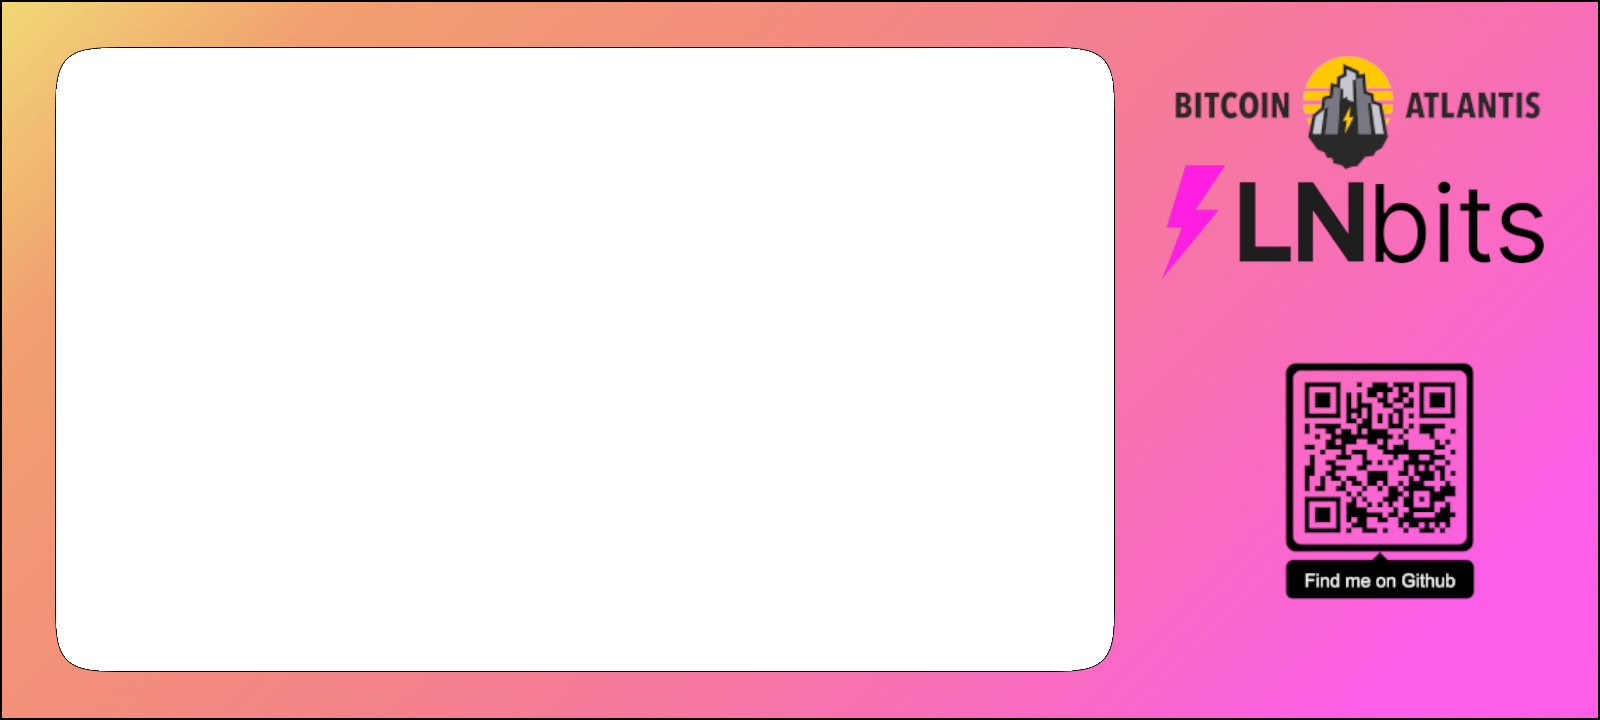
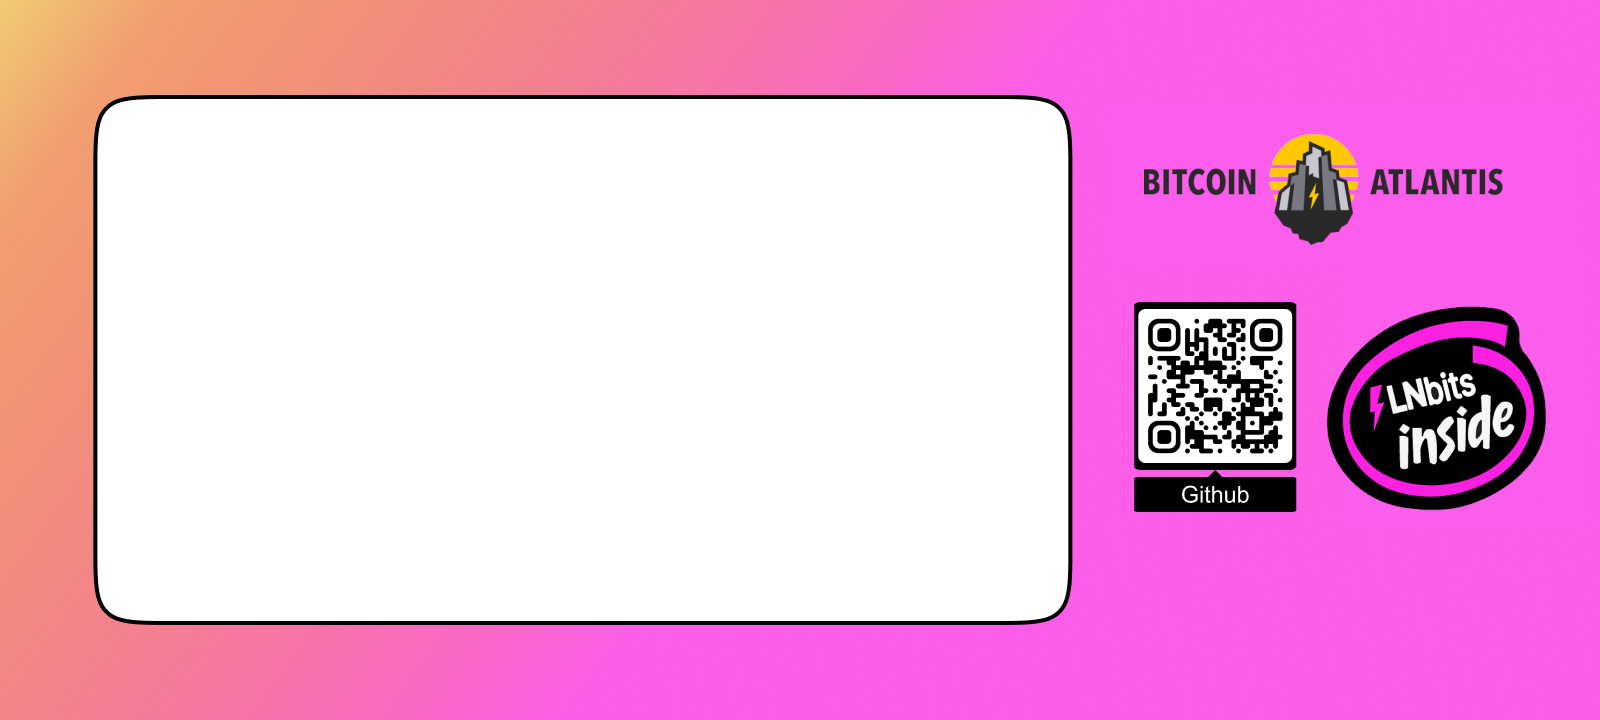
- new frames (white finish) - removed more bad gifs - poc.gif in README.md - new qr code image

diff --git a/Python/app.py b/Python/app.py
@@ -149,16 +149,16 @@ class VendingMachineDisplay(QWidget):
         # Picture Label setup for the right half
         self.rightPictureLabel = QLabel(self)  # Renamed to differentiate from the other picture label
         self.rightPictureLabel.setAlignment(Qt.AlignCenter)
-        rightPicturePixmap = QPixmap(rf"../images/gifs/0_welcome/text_welcome.png")  # Replace with your actual image path
-        self.rightPictureLabel.setPixmap(rightPicturePixmap.scaled(532, 532, Qt.KeepAspectRatio))
-        self.rightPictureLabel.setGeometry(605, 93, 530, 530)  # Positioned on the right half
+        rightPicturePixmap = QPixmap(rf"../images/gifs/0_welcome/qr-code.png")  # Replace with your actual image path
+        self.rightPictureLabel.setPixmap(rightPicturePixmap.scaled(525, 525, Qt.KeepAspectRatio))
+        self.rightPictureLabel.setGeometry(605, 98, 525, 525)  # Positioned on the right half
 
         # Picture Label setup for the left half
         self.leftPictureLabel = QLabel(self)  # Renamed to differentiate from the other picture label
         self.leftPictureLabel.setAlignment(Qt.AlignCenter)
         leftPicturePixmap = QPixmap(rf"../images/gifs/0_welcome/text_welcome.png")  # Replace with your actual image path
-        self.leftPictureLabel.setPixmap(leftPicturePixmap.scaled(532, 532, Qt.KeepAspectRatio))
-        self.leftPictureLabel.setGeometry(90, 93, 532, 532)  # Positioned on the left half
+        self.leftPictureLabel.setPixmap(leftPicturePixmap.scaled(530, 530, Qt.KeepAspectRatio))
+        self.leftPictureLabel.setGeometry(90, 96, 530, 530)  # Positioned on the left half
 
         self.setWindowFlags(self.windowFlags() | Qt.FramelessWindowHint)
 

diff --git a/LIESMICH.md b/LIESMICH.md
@@ -29,9 +29,9 @@
   <img src="https://github.com/j0sh21/DoxBox/assets/63317640/384280e0-cc6e-4bd0-9953-c318b5e12f15" height="200">
 
   <img src="https://github.com/j0sh21/DoxBox/assets/63317640/e446af16-d840-4cbc-87f9-3d5f67b3a15d" height="200">
-
+  <img src="poc.gif" height="200">
 ## Beispiel Programmablauf:
-<img src="flowchart.JPG" height="1300">
+<img src="flowchart.JPG" height="900">
 
 ## Einrichtungsanleitung
 

diff --git a/README.md b/README.md
@@ -28,9 +28,9 @@
   <img src="https://github.com/j0sh21/DoxBox/assets/63317640/384280e0-cc6e-4bd0-9953-c318b5e12f15" height="200">
 
   <img src="https://github.com/j0sh21/DoxBox/assets/63317640/e446af16-d840-4cbc-87f9-3d5f67b3a15d" height="200">
-
+  <img src="poc.gif" height="200">
 ## Example programm flow:
-<img src="flowchart.JPG" height="1300">
+<img src="flowchart.JPG" height="900">
 
 ## Setup Instructions
 

diff --git a/LEIA_ME.md b/LEIA_ME.md
@@ -31,6 +31,7 @@
   <img src="https://github.com/j0sh21/DoxBox/assets/63317640/384280e0-cc6e-4bd0-9953-c318b5e12f15" height="200">
 
   <img src="https://github.com/j0sh21/DoxBox/assets/63317640/e446af16-d840-4cbc-87f9-3d5f67b3a15d" height="200">
+  <img src="poc.gif" height="200">
 
 ## Exemplo de fluxo de programa:
 <img src="flowchart.JPG" height="1300">
